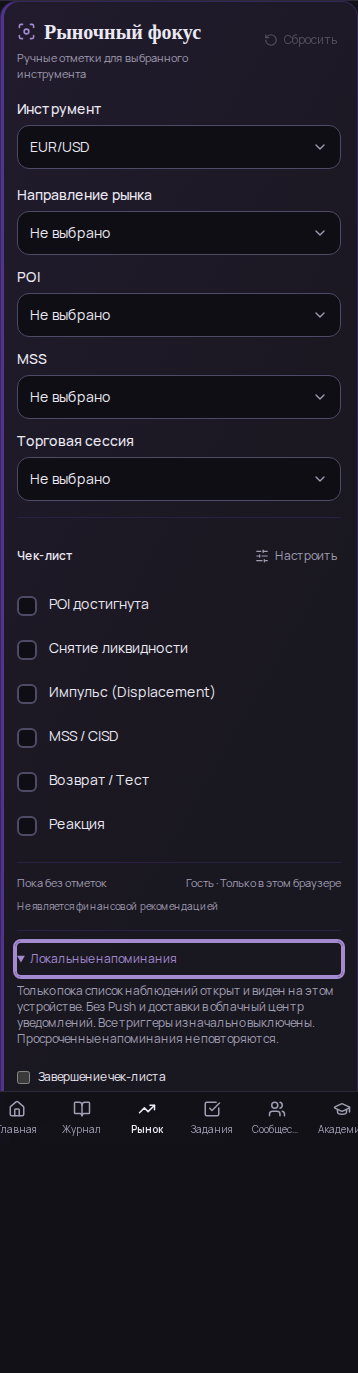
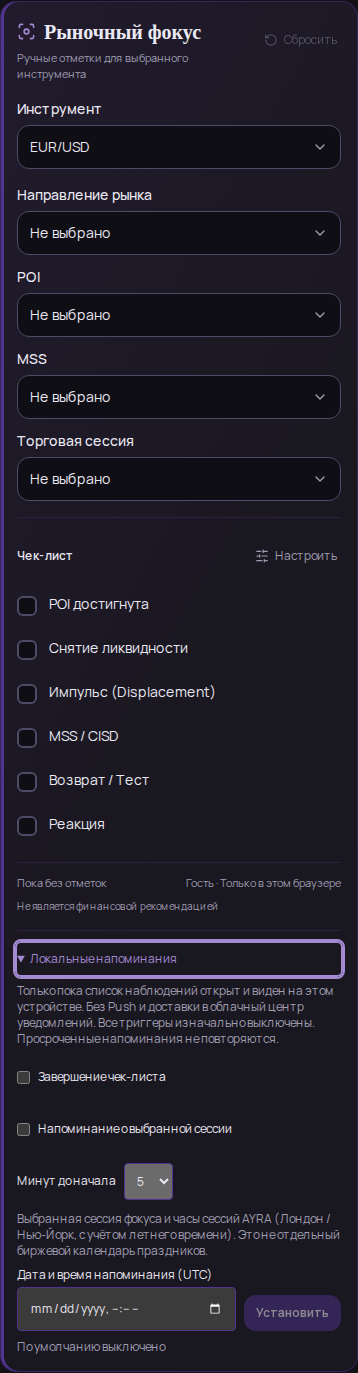
Capture complete local reminder controls in review screenshots

Changed region(s): [[0.0, 0.7953, 0.9525, 1.0], [0.9218, 0.7953, 1.0, 1.0], [0.7374, 0.7953, 0.7989, 0.8259]]

diff --git a/e2e-supabase/market-focus-notifications.spec.ts b/e2e-supabase/market-focus-notifications.spec.ts
@@ -72,6 +72,6 @@ for(const lang of ["ru","en"] as const)for(const width of [360,390,768,1024,1440
     await page.addInitScript(lang=>{localStorage.setItem("ayra_guest_dismissed","1");localStorage.setItem("ayra_lang",lang);localStorage.setItem("ayra_market_watchlist",JSON.stringify({version:1,ids:["eurusd"]}));},lang);
     const errors:string[]=[];page.on("pageerror",e=>errors.push(e.message));await page.goto("/market?tab=watchlist");const panel=page.getByTestId("focus-alerts");await panel.locator("summary").focus();await page.keyboard.press("Enter");await expect(panel.locator('input[type="datetime-local"]')).toBeEnabled();
     expect(await page.evaluate(()=>document.documentElement.scrollWidth<=innerWidth)).toBe(true);expect(errors).toEqual([]);
-    if(process.env.AYRA_FOCUS_ALERT_SCREENS&&(width===390||width===1440)){mkdirSync(process.env.AYRA_FOCUS_ALERT_SCREENS,{recursive:true});await page.getByTestId("market-focus").screenshot({path:`${process.env.AYRA_FOCUS_ALERT_SCREENS}/${width}-${lang}.png`});}
+    if(process.env.AYRA_FOCUS_ALERT_SCREENS&&(width===390||width===1440)){mkdirSync(process.env.AYRA_FOCUS_ALERT_SCREENS,{recursive:true});await page.setViewportSize({width,height:width<768?2200:1500});await page.getByTestId("market-focus").scrollIntoViewIfNeeded();await page.getByTestId("market-focus").screenshot({path:`${process.env.AYRA_FOCUS_ALERT_SCREENS}/${width}-${lang}.png`});}
   }finally{await page.context().close();}
 });
